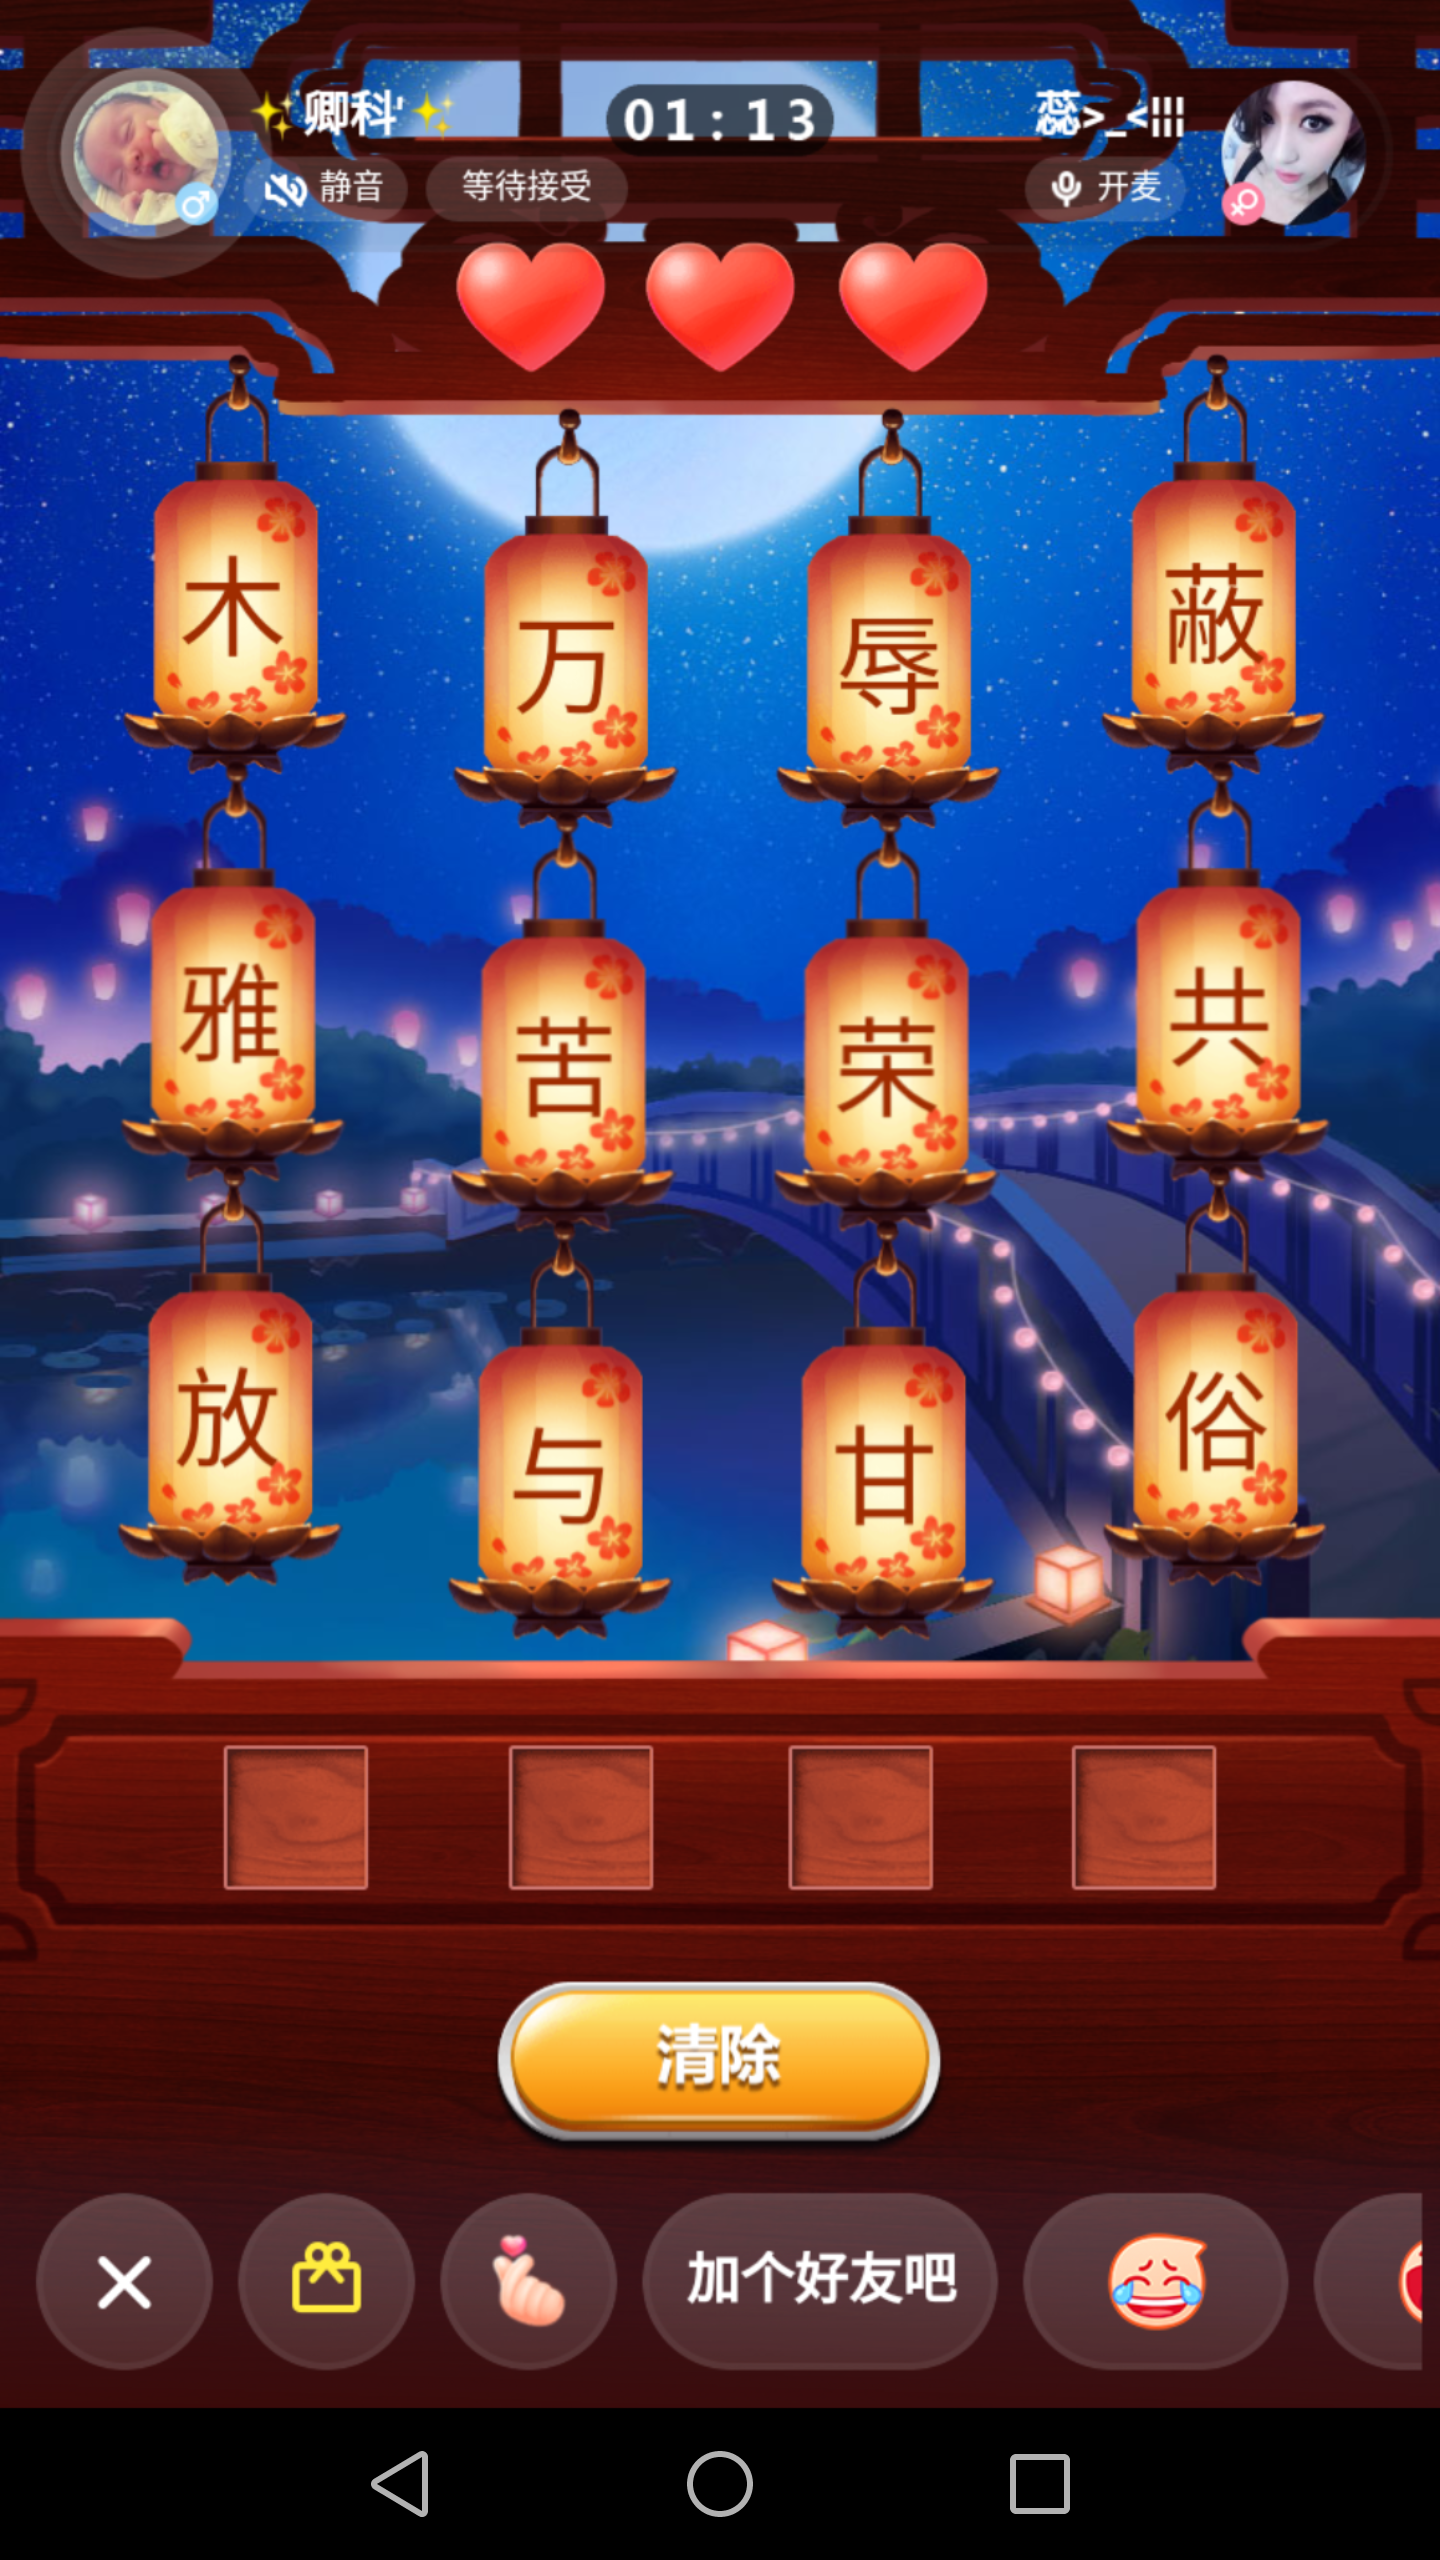
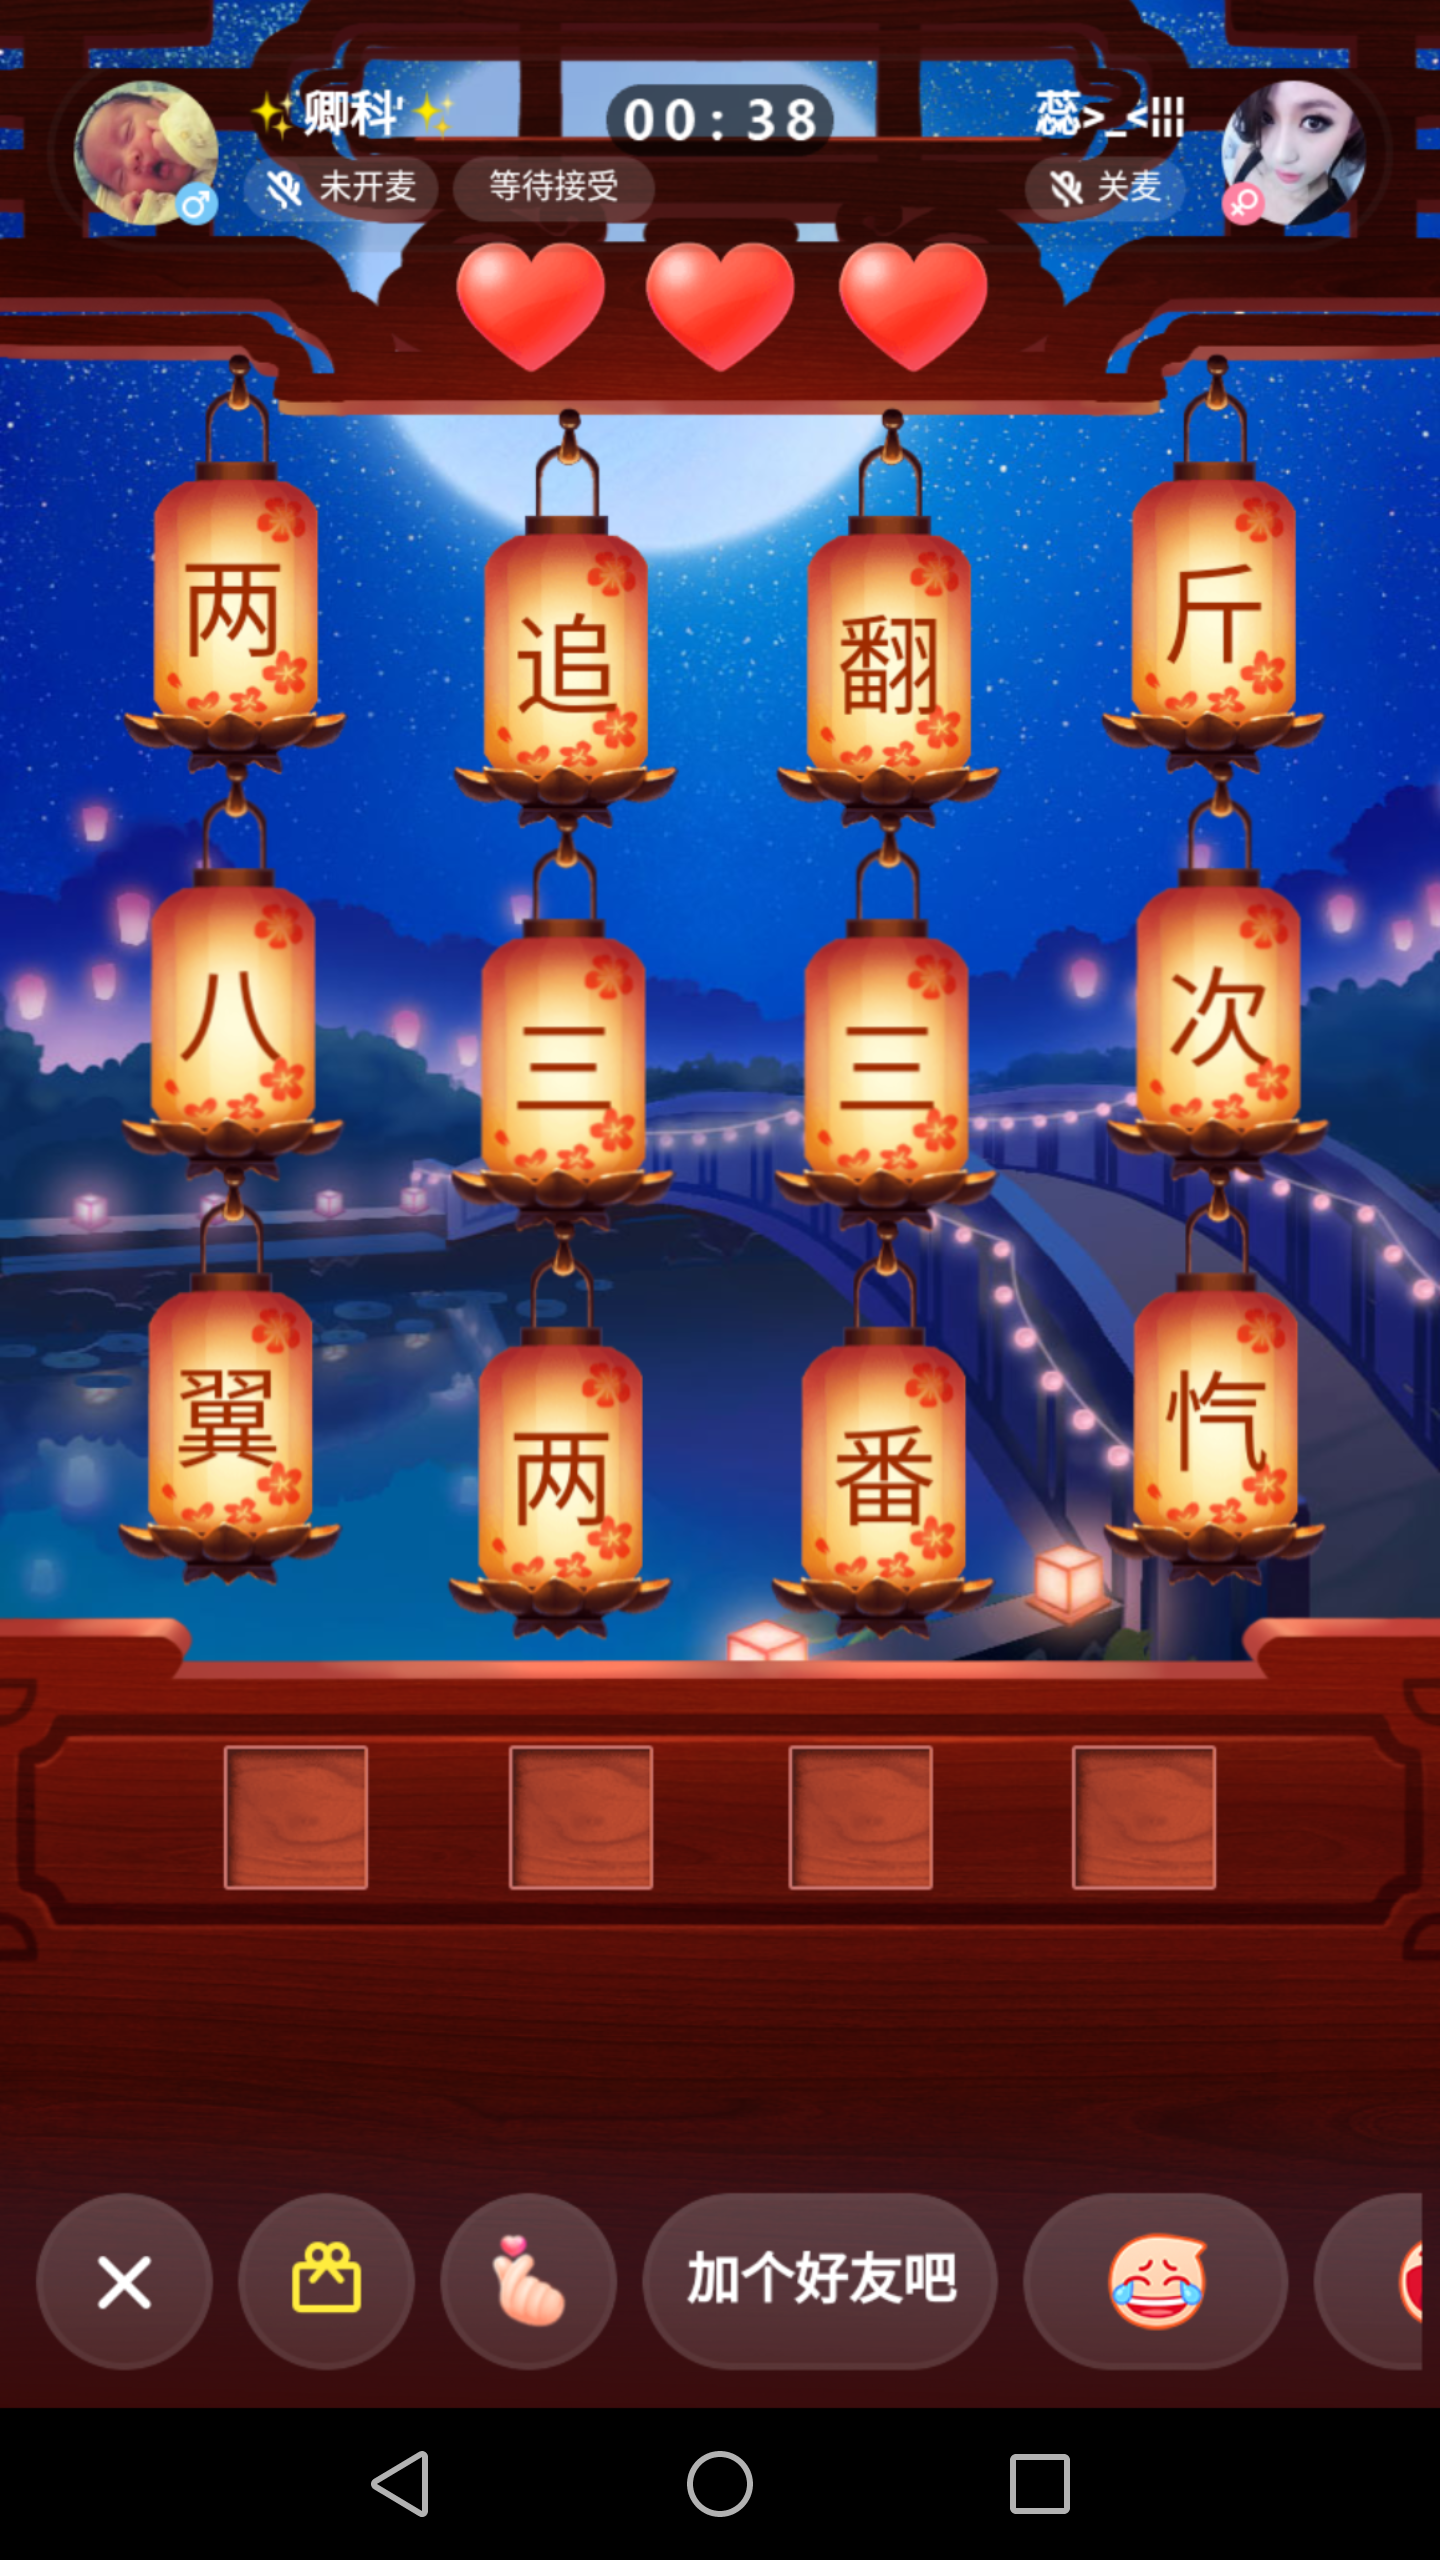
成语识图进行部分优化

diff --git a/practice/idiom/processers/analyze_data.py b/practice/idiom/processers/analyze_data.py
@@ -3,11 +3,17 @@
 
 from processers.read_json import readJson
 from processers.random_lst import randomLst
+from processers.get_cwd import getCwd
+import os
 
 class analyzeData(object):
     def __init__(self):
         self.read_json = readJson()
         self.random_lst = randomLst()
+        self.get_cwd = getCwd()
+        self.pwd_part_one = self.get_cwd.run()
+        self.pwd_part_two_pic1 = 'pics/screenshoot.png'
+        self.pwd_part_two_pic2 = 'pics/crop_screenshoot.png'
 
     def key_lst(self):
         key_lst = []
@@ -16,7 +22,14 @@ class analyzeData(object):
             key_lst.append(data[i]['des'])
         return key_lst
 
+    def del_pics(self):
+        path_pic1 = self.pwd_part_one + self.pwd_part_two_pic1
+        path_pic2 = self.pwd_part_one + self.pwd_part_two_pic2
+        os.remove(path_pic1)
+        os.remove(path_pic2)
+
     def run(self):
+        self.del_pics()
         key_lst = self.key_lst()
         Flag = True
         while Flag:

diff --git a/practice/idiom/processers/screen_shoot.py b/practice/idiom/processers/screen_shoot.py
@@ -1,6 +1,7 @@
 # -*- coding: utf-8 -*-
 
 from processers.get_cwd import getCwd
+import time
 import os
 
 class screenShoot(object):
@@ -17,9 +18,8 @@ class screenShoot(object):
         path =self.abs_path(pwd_part_one + self.pwd_part_two)
         os.popen('adb wait-for-device')
         os.popen('adb shell screencap -p /sdcard/screenshoot.png')
-        if not os.path.isdir(path):
-            os.mkdir(path)
         os.popen('adb pull /sdcard/screenshoot.png ' + path + '/')
+        time.sleep(2)
         print('屏幕截取成功')
 
 def main():

diff --git a/practice/idiom/processers/get_dit.py b/practice/idiom/processers/get_dit.py
@@ -8,7 +8,8 @@ from processers.open_file import openFile
 
 class getDit(object):
     def __init__(self):
-        self.request_url = 'https://aip.baidubce.com/rest/2.0/ocr/v1/accurate_basic'
+        #self.request_url = 'https://aip.baidubce.com/rest/2.0/ocr/v1/accurate_basic'
+        self.request_url = 'https://aip.baidubce.com/rest/2.0/ocr/v1/accurate'
         self.get_html = getHtml()
         self.open_file = openFile()
 

diff --git a/practice/idiom/processers/open_file.py b/practice/idiom/processers/open_file.py
@@ -7,7 +7,7 @@ import urllib.parse
 class openFile(object):
     def __init__(self):
         self.get_cwd = getCwd()
-        self.pwd_part_two = 'pics/crop_test1.png'
+        self.pwd_part_two = 'pics/crop_screenshoot.png'
 
     def get_filename(self):
         pwd_part_one = self.get_cwd.run()

diff --git a/practice/idiom/processers/cut_img.py b/practice/idiom/processers/cut_img.py
@@ -24,4 +24,4 @@ class cutImg(object):
         w = 1150
         h = 1110
         region = im.crop((x, y, x+w, y+h))
-        region.save(self.get_cwd.run() + "pics/crop_test1.png")
+        region.save(self.get_cwd.run() + "pics/crop_screenshoot.png")

diff --git a/practice/idiom/processers/analyze_dit.py b/practice/idiom/processers/analyze_dit.py
@@ -13,4 +13,5 @@ class anylizeDit(object):
         lst = dit['words_result']
         for i in range(len(lst)):
             self.get_lst.append(lst[i]['words'])
+        print('文字词为: {0}'.format(self.get_lst))
         return self.get_lst

diff --git a/practice/idiom/main.py b/practice/idiom/main.py
@@ -3,6 +3,7 @@
 from processers.analyze_data import analyzeData
 from processers.screen_shoot import screenShoot
 from processers.cut_img import cutImg
+import time
 
 version = 'V 0.0.4'
 
